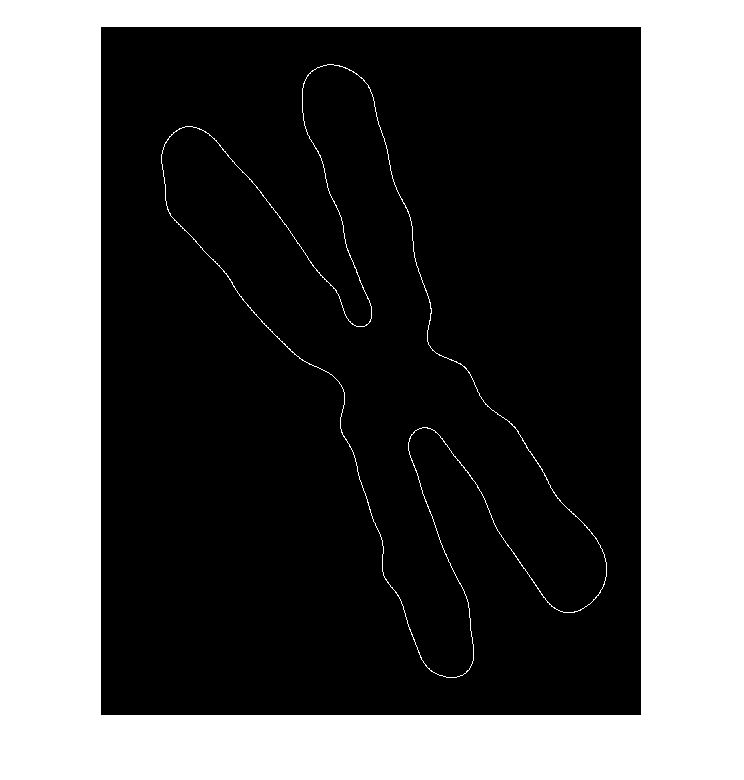
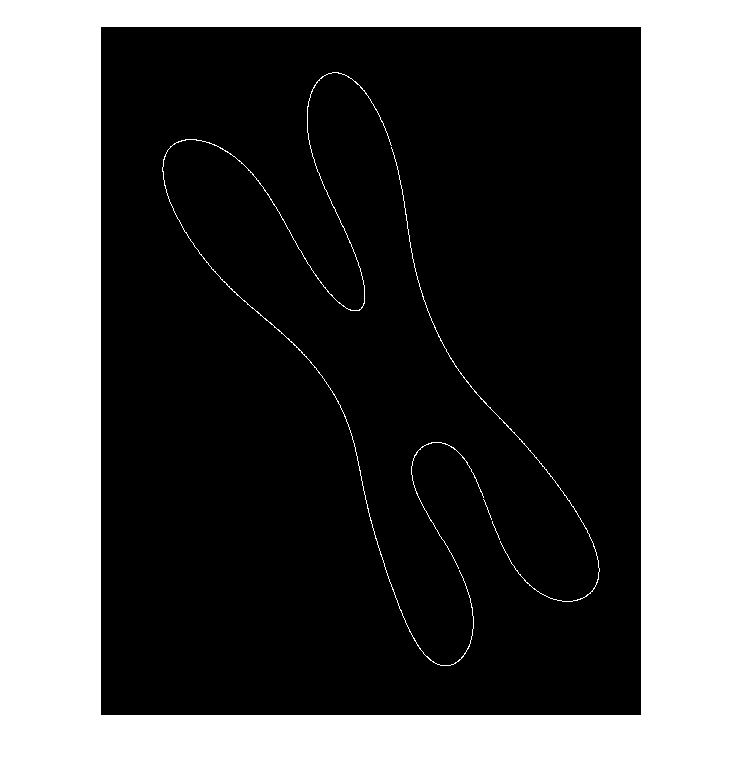
update

Changed region(s): [[0.711, 0.5846, 0.7419, 0.6154], [0.3401, 0.4, 0.371, 0.4308]]

diff --git a/ece565/project2/test4.m b/ece565/project2/test4.m
@@ -15,8 +15,9 @@ outerb_fdesc = fourierdescp(outerb);
 fftplot(outerb_fdesc);
 
 ifourierdescp_show(outerb_fdesc, 1, height, width);
-ifourierdescp_show(outerb_fdesc, length(outerb) * 0.01, height, width);
-ifourierdescp_show(outerb_fdesc, length(outerb) * 0.5, height, width);
+
+ifourierdescp_show(outerb_fdesc, 2 * floor(length(outerb) * 0.01 / 4), height, width);
+ifourierdescp_show(outerb_fdesc, 2 * floor(length(outerb) * 0.5 / 4), height, width);
 
 function ifourierdescp_show_n(outerb_fdesc, n, height, width)
   for k=1:n
